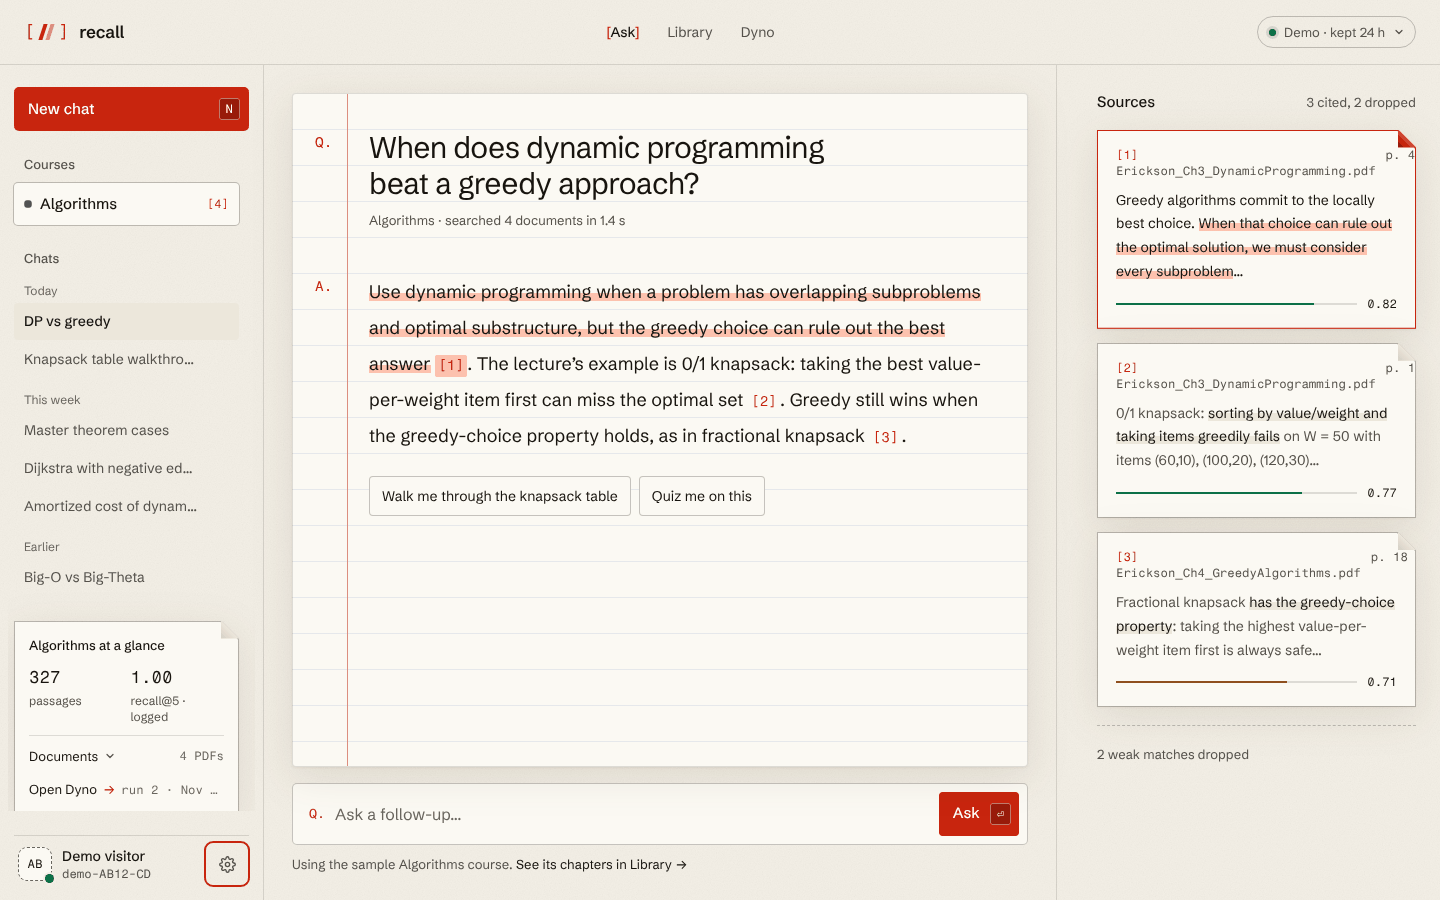
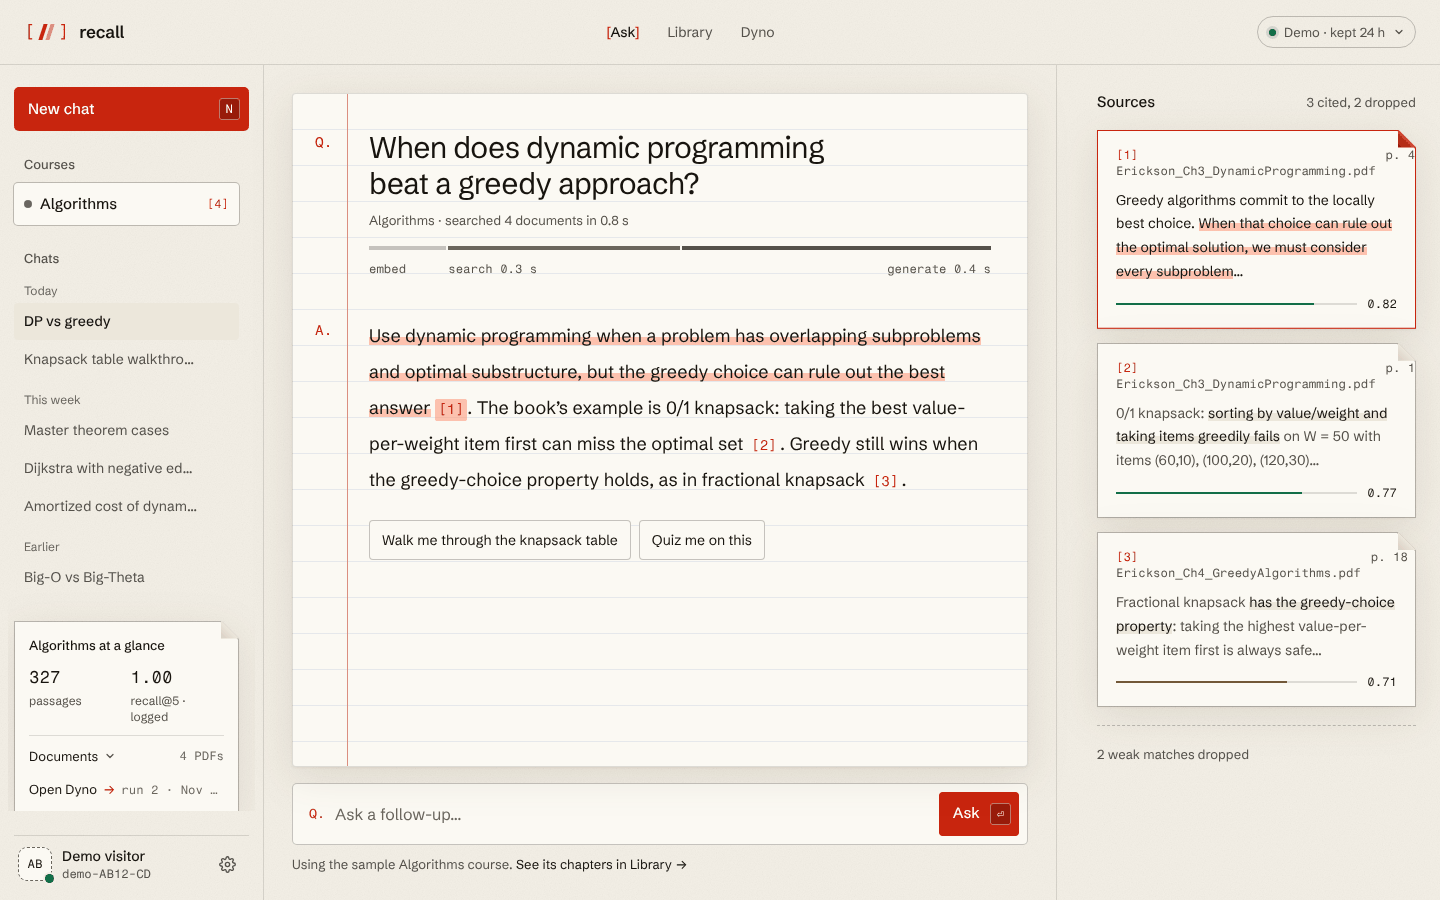
feat: launch polish (About layout, no reranker claims, MIT licence, README) (#56)
- About this demo: heading on top, facts in two columns (no dead space)
- landing: "rerank score" -> "similarity", "keyword + vector search,
  then rerank" -> "vector search, best matches first"; the hero card
  cites Erickson_Ch3_DynamicProgramming.pdf, not a made-up file
- mock answers: no fake rerank timing; "the book's example"
- settings hint no longer mentions rerank
- e2e: two regression tests for the above (85 -> 87)
- README: the real logo; Environments section; Testing expanded into
  Testing and quality engineering (CI gate, techniques, principles)
- api/README: documents the history field on /v1/answer
- LICENSE: MIT

Changed region(s): [[0.25, 0.2178, 0.6875, 0.4978], [0.25, 0.5289, 0.625, 0.56], [0.25, 0.5911, 0.5312, 0.6222]]

diff --git a/web/src/lib/api/mock-data.ts b/web/src/lib/api/mock-data.ts
@@ -55,7 +55,7 @@ export const ANSWERS: Record<string, Answer> = {
     courseId: SAMPLE_COURSE_IDS.algorithms,
     claims: [
       "Use dynamic programming when a problem has overlapping subproblems and optimal substructure, but the greedy choice can rule out the best answer",
-      "The lecture’s example is 0/1 knapsack: taking the best value-per-weight item first can miss the optimal set",
+      "The book’s example is 0/1 knapsack: taking the best value-per-weight item first can miss the optimal set",
       "Greedy still wins when the greedy-choice property holds, as in fractional knapsack",
     ],
     sources: [
@@ -67,7 +67,7 @@ export const ANSWERS: Record<string, Answer> = {
       { file: "Erickson_Ch4_GreedyAlgorithms.pdf", page: 22, score: 0.41 },
       { file: "Erickson_Ch1_Recursion.pdf", page: 9, score: 0.33 },
     ],
-    timing: { embed: 0.1, search: 0.3, rerank: 0.6, generate: 0.4 },
+    timing: { embed: 0.1, search: 0.3, rerank: 0, generate: 0.4 },
     followUps: ["Walk me through the knapsack table", "Quiz me on this"],
   },
   dj: {
@@ -84,7 +84,7 @@ export const ANSWERS: Record<string, Answer> = {
       { n: 3, file: "Erickson_Ch8_ShortestPaths.pdf", page: 33, score: 0.73, pre: "Bellman-Ford ", hit: "relaxes all edges |V| − 1 times", post: ", then one more pass to detect a negative cycle…" },
     ],
     dropped: [{ file: "Erickson_Ch1_Recursion.pdf", page: 21, score: 0.38 }],
-    timing: { embed: 0.1, search: 0.3, rerank: 0.5, generate: 0.4 },
+    timing: { embed: 0.1, search: 0.3, rerank: 0, generate: 0.4 },
     followUps: ["Show me a counterexample graph", "Quiz me on this"],
   },
   ms: {
@@ -104,7 +104,7 @@ export const ANSWERS: Record<string, Answer> = {
       { file: "Erickson_Ch3_DynamicProgramming.pdf", page: 2, score: 0.4 },
       { file: "Erickson_Ch8_ShortestPaths.pdf", page: 4, score: 0.31 },
     ],
-    timing: { embed: 0.1, search: 0.2, rerank: 0.5, generate: 0.4 },
+    timing: { embed: 0.1, search: 0.2, rerank: 0, generate: 0.4 },
     followUps: ["Draw the recursion tree", "Quiz me on this"],
   },
 

diff --git a/web/src/app/_landing/AboutDemo.tsx b/web/src/app/_landing/AboutDemo.tsx
@@ -44,20 +44,16 @@ const FACTS: readonly { term: string; detail: React.ReactNode }[] = [
 
 export function AboutDemo() {
   return (
-    <section id="about-this-demo" aria-labelledby="about-h" className="relative mx-auto flex max-w-[1200px] scroll-mt-6 flex-wrap gap-14 px-6 pb-24 pt-12">
-      <div className="min-w-0 flex-[1_1_320px]">
-        <h2 id="about-h" className="m-0 text-[46px] font-normal leading-[1.06] tracking-[-0.032em]">
-          About this demo.
-        </h2>
-        <p className="mb-0 mt-[18px] max-w-[24em] text-[17px] leading-[1.6] text-ink-2">
-          Recall is a portfolio project: a study assistant built on retrieval, with its own benchmark. Here’s what the public demo covers.
-        </p>
-      </div>
-      <div className="sheet relative min-w-0 flex-[2_1_560px]">
+    <section id="about-this-demo" aria-labelledby="about-h" className="relative mx-auto max-w-[1200px] scroll-mt-6 px-6 pb-24 pt-12">
+      <h2 id="about-h" className="m-0 text-[46px] font-normal leading-[1.06] tracking-[-0.032em]">About this demo.</h2>
+      <p className="mb-0 mt-[18px] max-w-[40em] text-[17px] leading-[1.6] text-ink-2">
+        Recall is a portfolio project: a study assistant built on retrieval, with its own benchmark. Here’s what the public demo covers.
+      </p>
+      <div className="sheet relative mt-10">
         <div className="ear bg-line-2 p-px">
-          <dl className="ear m-0 bg-sheet px-[30px] pb-3 pt-2">
+          <dl className="ear m-0 grid bg-sheet px-[30px] py-3 md:grid-cols-2 md:gap-x-12">
             {FACTS.map(({ term, detail }, i) => (
-              <div key={term} className={`py-[17px] ${i === 0 ? "" : "border-t border-line"}`}>
+              <div key={term} className={`border-line py-[17px] ${i === 0 ? "" : "border-t"} ${i === 1 ? "md:border-t-0" : ""} ${i === FACTS.length - 1 ? "md:col-span-2" : ""}`}>
                 <dt className="font-mono text-xs uppercase tracking-[0.1em] text-ink-2">{term}</dt>
                 <dd className="m-0 mt-1.5 text-base leading-relaxed">{detail}</dd>
               </div>

diff --git a/web/src/app/_landing/Pipeline.tsx b/web/src/app/_landing/Pipeline.tsx
@@ -53,7 +53,7 @@ function PlayIcon() {
   );
 }
 
-/** "From pages to proof": the animated retrieval → rerank → answer diagram. */
+/** "From pages to proof": the animated retrieval → similarity → answer diagram. */
 export function Pipeline() {
   const [paused, setPaused] = useState(false);
   // Only animate the icon/label swap after the first real toggle, not on page load.
@@ -151,7 +151,7 @@ export function Pipeline() {
                 </div>
               ))}
 
-              {/* Rerank gauge hub: the needle sweeps to each passage's score in time with the flows. */}
+              {/* Similarity gauge hub: the needle sweeps to each passage's score in time with the flows. */}
               <div className="absolute left-[420px] top-[140px] box-border h-[200px] w-[200px] rounded-full border border-line-2 bg-paper shadow-[0_2px_2px_rgba(70,45,20,0.06),0_18px_40px_-12px_rgba(70,45,20,0.22),inset_0_0_0_6px_var(--sheet)]">
                 <svg width="200" height="200" viewBox="0 0 200 200" aria-hidden="true" className="absolute -left-px -top-px">
                   <path d="M32.4 139 A78 78 0 0 1 100 22" fill="none" stroke="var(--bad)" strokeOpacity="0.8" strokeWidth="7" />
@@ -162,9 +162,9 @@ export function Pipeline() {
                   </g>
                   <circle cx="100" cy="100" r="8" fill="var(--paper)" stroke="var(--ink)" strokeWidth="2.5" />
                 </svg>
-                <p className="absolute inset-x-0 top-32 m-0 text-center font-mono text-xs text-ink-2">rerank score</p>
+                <p className="absolute inset-x-0 top-32 m-0 text-center font-mono text-xs text-ink-2">similarity</p>
               </div>
-              <p className="absolute left-[380px] top-[354px] m-0 w-[280px] text-center font-mono text-xs text-ink-2">keyword + vector search, then rerank</p>
+              <p className="absolute left-[380px] top-[354px] m-0 w-[280px] text-center font-mono text-xs text-ink-2">vector search, best matches first</p>
 
               {/* Score buckets */}
               {OUTS.map((o) => (

diff --git a/web/src/app/_landing/Hero.tsx b/web/src/app/_landing/Hero.tsx
@@ -101,7 +101,7 @@ export function Hero() {
             <div className="ear bg-sheet px-7 pb-6 pt-[26px]">
               <div className="flex justify-between font-mono text-xs text-ink-2">
                 <span>
-                  <span className="text-red">[1]</span> <span translate="no">Week6_DynamicProgramming.pdf</span>
+                  <span className="text-red">[1]</span> <span translate="no">Erickson_Ch3_DynamicProgramming.pdf</span>
                 </span>
                 <span className="num">p.&nbsp;4</span>
               </div>
@@ -113,7 +113,7 @@ export function Hero() {
                 and store the results we reuse.
               </p>
               <div className="mt-[22px] flex items-center gap-3 font-mono text-xs text-ink-2">
-                <span>rerank score</span>
+                <span>similarity</span>
                 <span className="h-0.5 flex-auto bg-line">
                   <span className="block h-full w-[82%] bg-good" />
                 </span>

diff --git a/web/e2e/landing.spec.ts b/web/e2e/landing.spec.ts
@@ -12,6 +12,14 @@ test.describe("landing page", () => {
     await expect(page).toHaveURL(/\/demo$/);
   });
 
+  test("describes only what's built: no reranker or keyword search, and the hero cites a real chapter", async ({ page }) => {
+    // Recall has vector search only (2026-11-27). "Reranking planned" on the spec sheet is fine; claiming it runs is not.
+    await page.goto("/");
+    await expect(page.getByText(/rerank score|then rerank|keyword \+ vector/i)).toHaveCount(0);
+    await expect(page.getByText("Erickson_Ch3_DynamicProgramming.pdf").first()).toBeVisible();
+    await expect(page.getByText("Week6_DynamicProgramming.pdf")).toHaveCount(0);
+  });
+
   test("nav How it works scrolls the pipeline section into view", async ({ page }) => {
     await page.goto("/");
     await page.getByRole("navigation", { name: "Main" }).getByRole("link", { name: "How it works" }).click();

diff --git a/web/src/app/(app)/ask/_components/IdentityRow.tsx b/web/src/app/(app)/ask/_components/IdentityRow.tsx
@@ -99,7 +99,7 @@ export function IdentityRow({ settings, onSettings }: { settings: Settings; onSe
           </div>
 
           <Toggle id="set-strict" label="Only answer from the book" hint="Say “not in the book” instead of guessing." on={settings.strict} onChange={(v) => set({ strict: v })} />
-          <Toggle id="set-timing" label="Show retrieval timing" hint="The embed, search, rerank, generate bar." on={settings.timing} onChange={(v) => set({ timing: v })} />
+          <Toggle id="set-timing" label="Show retrieval timing" hint="The rewrite, embed, search and generate bar." on={settings.timing} onChange={(v) => set({ timing: v })} />
           <Toggle id="set-motion" label="Reduce motion" hint="Turns off animations. Follows your system by default." on={settings.calm} onChange={(v) => set({ calm: v })} />
         </div>
       </div>

diff --git a/web/e2e/ask.spec.ts b/web/e2e/ask.spec.ts
@@ -148,6 +148,14 @@ test.describe("ask", () => {
     await expect(page.getByRole("link", { name: "See its chapters in Library →" })).toHaveAttribute("href", "/library");
   });
 
+  test("the timing bar shows only steps Recall really runs (no reranker)", async ({ page }) => {
+    await page.goto("/ask");
+    const bar = page.getByRole("group", { name: "Time spent per step" }).first();
+    await expect(bar).toContainText("search");
+    await expect(bar).toContainText("generate");
+    await expect(bar).not.toContainText("rerank");
+  });
+
   test("a chat can be renamed inline", async ({ page }) => {
     await page.goto("/ask");
     const chats = page.getByRole("navigation", { name: "Chats" });

diff --git a/web/src/app/(app)/ask/_components/settings.ts b/web/src/app/(app)/ask/_components/settings.ts
@@ -3,7 +3,7 @@ export interface Settings {
   length: "short" | "detailed";
   /** Say "not in the book" instead of guessing. */
   strict: boolean;
-  /** Show the embed/search/rerank/generate bar. */
+  /** Show the rewrite/embed/search/generate bar. */
   timing: boolean;
   /** Kill transitions and animations inside the workspace. */
   calm: boolean;

diff --git a/README.md b/README.md
@@ -1,6 +1,6 @@
 <div align="center">
 
-# `[ / / ]` recall
+<h1><img src="docs/images/logo.png" alt="Recall" width="330"></h1>
 
 **Ask the textbook. Get answers cited to the page.**
 
@@ -29,8 +29,9 @@ An AI study assistant built on retrieval-augmented generation (RAG), with its ow
 - [Complexity and cost](#complexity-and-cost)
 - [Security model](#security-model)
 - [AWS and deployment](#aws-and-deployment)
+- [Environments](#environments)
 - [Design decisions](#design-decisions)
-- [Testing](#testing)
+- [Testing and quality engineering](#testing-and-quality-engineering)
 - [Run it locally](#run-it-locally)
 - [Repository layout](#repository-layout)
 - [Known limits](#known-limits)
@@ -286,6 +287,48 @@ flowchart LR
 
 ---
 
+## Environments
+
+Four environments, each with its **own database and its own API**. Nothing outside production can read or write production data.
+
+```mermaid
+flowchart LR
+    subgraph LOCAL["💻 Local"]
+        direction TB
+        M["<b>Mock mode</b><br/>in-memory API<br/>no keys, no network"]
+        SI["<b>Postgres stand-in</b><br/>2 clusters: with and<br/>without default grants"]
+    end
+    subgraph PREVIEW["🔍 Preview (every PR)"]
+        direction TB
+        VP["Vercel preview"] --> SS[("Supabase<br/>recall-staging")]
+        VP --> LS["λ recall-api-staging"]
+    end
+    subgraph PROD["🚀 Production"]
+        direction TB
+        VPR["Vercel production"] --> SP[("Supabase<br/>recall")]
+        VPR --> LP["λ recall-api"]
+    end
+    LOCAL -->|"pull request"| PREVIEW -->|"squash-merge"| PROD
+```
+
+| | Local (mock) | Local stand-in | Preview | Production |
+|---|---|---|---|---|
+| **Frontend** | `next dev` / `next start` | n/a | Vercel preview, one per PR | Vercel production |
+| **Database** | none: an in-memory mock API | Postgres 16 + pgvector + pg_cron + pgTAP, two clusters | Supabase **staging** | Supabase **production** |
+| **RAG API** | none | the real script entry points | Lambda **staging** | Lambda **production** |
+| **Used for** | UI work, Vitest, Playwright | pgTAP on both database flavours; end-to-end runs of the ingest and Dyno scripts | Reviewing a PR on real data; verifying migrations before production | Visitors |
+| **Secrets** | none | none | staging keys only | production keys only |
+
+**How the environments stay honest:**
+
+- **Feature flags, not branches.** `NEXT_PUBLIC_REAL_SESSIONS`, `NEXT_PUBLIC_REAL_CHATS` and `NEXT_PUBLIC_REAL_ASK` switched each layer from the mock to the real backend one at a time, so the UI shipped and was tested long before the backend existed. `NEXT_PUBLIC_` values are baked in at build time, so a flag is always turned on in **Preview first**, tested, then in Production.
+- **Staging and production are deliberately different Supabase projects**, and they differ in one way that matters: production (an older project) has Supabase's **default table grants**, staging doesn't. A permissions bug once surfaced only on staging (`42501`, permission denied), because the code had silently relied on those defaults. Since then every table gets **explicit GRANTs pinned by tests**, and the local stand-in runs every pgTAP test on **both flavours**: one cluster with default grants, one without.
+- **Migrations go staging → verify → production → verify**, with verification queries copied from the schema, and the CLI's linked project checked before every push.
+- **Each Lambda has its own internal key**, so a staging key can't call production.
+- **A standby switch** (`NEXT_PUBLIC_DEMO_STANDBY`) can close the public demo in production with an environment variable and a redeploy, no code change, while previews keep working.
+
+---
+
 ## Design decisions
 
 <details open>
@@ -345,16 +388,72 @@ A recruiter or student should be able to try it in one click. Supabase's anonymo
 
 ---
 
-## Testing
+## Testing and quality engineering
+
+```mermaid
+flowchart LR
+    subgraph B["🖥 Browser"]
+        E2E["<b>Playwright · 87</b><br/>user flows · desktop + phone<br/>axe accessibility"]
+    end
+    subgraph W["▲ Next.js"]
+        V["<b>Vitest · 289</b><br/>components · route handlers<br/>API contracts"]
+    end
+    subgraph A["🐍 FastAPI"]
+        P["<b>pytest · 166</b><br/>ingest · answer pipeline<br/>rewriting · metrics"]
+    end
+    subgraph D["🐘 Postgres"]
+        T["<b>pgTAP · 105</b><br/>RLS · GRANTs · limits<br/>cascades · clean-up"]
+    end
+    B --> W --> A --> D
+    DY["📏 <b>Dyno</b><br/>retrieval quality<br/>33 labelled questions"] -.->|"measures what<br/>tests can't"| A
+```
 
 | Suite | Count | What it covers |
 |---|---:|---|
-| **pgTAP** | 105 | Row-level security, GRANTs, limits, clean-up, cascades: run on a throwaway Supabase in CI |
-| **pytest** | 166 | Extraction, chunking, embedding, the answer pipeline, rewriting, rate limiting, Dyno's metrics |
-| **Vitest** | 289 | Components, route handlers, API contracts, the runs file's shape |
-| **Playwright** | 85 | End-to-end flows at desktop and phone width, plus axe accessibility checks |
+| **pgTAP** | 105 | Row-level security (one visitor attacking another's rows), exact GRANTs per role, per-session limits, cascades, the hourly clean-up. Each file runs in a transaction that's rolled back |
+| **pytest** | 166 | PDF extraction and glyph recovery, chunk boundaries, embedding batches, the answer endpoint's every error path (401 / 422 / 429 / 502 / 503), rewriting and its fallback, rate limiting, Dyno's metrics and bootstrap |
+| **Vitest** | 289 | Components, route handlers (with Supabase faked), the API contract shared by the mock and the real client, the runs file's shape |
+| **Playwright** | 87 | End-to-end flows at desktop and phone width, axe accessibility audits (WCAG 2.1 A/AA) on every screen, no sideways scroll at 390 px |
+| **Dyno** | 33 questions | Not a pass/fail test: it measures retrieval quality, so changes are judged on numbers, not impressions |
 
-Habits that kept these honest: new tests are run against the old code first (they must fail), deliberate bugs are planted to prove the tests catch them, boundary values get test data *at* the boundary, and the real entry points are run end to end against a local Postgres when unit tests can't reach them.
+### The CI gate
+
+Every pull request must pass **8 required checks** before it can merge into a protected `main`. Path filters skip suites a change can't affect, so a README change doesn't rebuild the API image.
+
+| Check | What it runs |
+|---|---|
+| `lint` · `typecheck` | ESLint; `next typegen` + `tsc --noEmit` |
+| `unit` | Vitest |
+| `e2e` | a production build, then Playwright on Chromium |
+| `rls-tests` | a throwaway Supabase (`supabase start`), every migration, then `supabase test db` |
+| `api-lint` · `api-test` | `ruff check` + `ruff format --check`; pytest, with `uv sync --locked` |
+| `api-image` | builds the Docker image, starts it **with no secrets** and checks `/health`, checks no secrets, PDFs or tests are inside, and that it runs as the non-root user |
+
+### How the tests are kept honest
+
+Passing tests only mean something if they would have failed on broken code. The habits behind these suites:
+
+- **Every new test fails first.** New Playwright tests are run against the old code (in a separate `git worktree`) to prove they detect the change; new pgTAP tests are run once *without* the new migration.
+- **Planted bugs (manual mutation testing).** Before each PR, deliberate bugs are introduced: an off-by-one in a threshold, a dropped grant, a kept policy, a renamed link. Every one must make a test fail. When one slipped through, a test was added; twice, the "bug" turned out to be dead code, which was deleted.
+- **Boundary values get data *at* the boundary:** similarity 0.249 / 0.25 / 0.3 around the 0.25 threshold, not just "high" and "low".
+- **Assert the right error, not just an error.** A test expecting `check_violation` once passed for the wrong reason, because a different rule raised the same code first. Tests now check the code *and* set up state so only the rule under test can fire.
+- **Contract tests at every boundary between programs:** the website validates the Python script's JSON at build time, and a test compares the page's question text with `golden.toml` word for word, so the two programs can't drift apart.
+- **Run the real entry point end to end** when unit tests can't reach the wiring. Running the Dyno script against a local Postgres loaded with the real 327 passages found a bug that would have made every real run refuse to start, after all unit tests had passed.
+- **Reproduce before fixing.** A bug that only appeared on the Vercel preview (a prefetched redirect cached before the session existed) was reproduced locally with a fake Supabase auth server and a forged session cookie, then fixed and verified in the same setup.
+- **Look at the result.** Every visual change is checked in screenshots at desktop and 390 px; a test can't tell you a link doesn't look like a link.
+
+### Engineering principles
+
+| Principle | Where it shows |
+|---|---|
+| **Least privilege** | Explicit GRANTs per table; the API holds no database password; a deploy role that can push one image and update two functions |
+| **Defence in depth** | 8 security layers, each assuming the previous one failed; browser checks are UX, the database enforces the same rule |
+| **Fail open for optional steps, fail closed for security** | A failed rewrite falls back to the original question; a failed auth check returns 401 |
+| **Untrusted input stays data** | PDF text and chat history are passed to the model as data; history is loaded server-side, never from the browser |
+| **Small, reviewable changes** | GitHub Flow, one short-lived branch per change, squash-merged with Conventional Commit titles |
+| **Reproducible builds** | Locked dependencies (`uv.lock`, `package-lock.json`); images tagged by commit, built once, promoted from staging to production unchanged |
+| **Measure, don't guess** | Dyno for retrieval quality, with sample sizes and intervals on every number; prices compared before choosing a host |
+| **No made-up numbers** | Unmeasured metrics show "not measured", not a placeholder; small samples say so |
 
 ---
 
@@ -435,4 +534,5 @@ recall/
 ## Credits
 
 - **Textbook:** Jeff Erickson, [*Algorithms*](https://jeffe.cs.illinois.edu/teaching/algorithms/book/), licensed under [CC BY 4.0](https://creativecommons.org/licenses/by/4.0/). Chapters 1, 3, 4 and 8 are used unmodified as the demo's course; the PDFs are not stored in this repository.
+- **Code:** [MIT License](LICENSE).
 - Built by **Amaan Ali** ([@AmaanAli1](https://github.com/AmaanAli1)), Computer Science at Wilfrid Laurier University.

diff --git a/api/README.md b/api/README.md
@@ -20,7 +20,7 @@ Settings come from environment variables or `api/.env` (copy `.env.example`; nev
 | Method | Path | What |
 |---|---|---|
 | GET | `/health` | Liveness check for the load balancer: `{"ok": true}` |
-| POST | `/v1/answer` | `{ courseId, question }` → `{ answer, usage }`: a cited answer from the course's passages |
+| POST | `/v1/answer` | `{ courseId, question, history? }` → `{ answer, usage }`: a cited answer from the course's passages. `history` (≤ 10 earlier turns, loaded by Next.js from the database) lets a follow-up be rewritten to stand alone first |
 
 `/v1/answer` needs two headers: `X-Recall-Internal` (the shared `INTERNAL_KEY`, so only Next.js can call it) and `Authorization: Bearer <visitor's Supabase token>`. The service talks to Supabase with the publishable key plus that token, so RLS decides what it can read; it holds no database password. Errors: 401 (bad key or token), 422 (bad body), 429 (5 per minute, or the session's token budget is spent), 502 (OpenAI or Supabase failed), 503 (the OpenAI project's monthly limit is reached).
 
